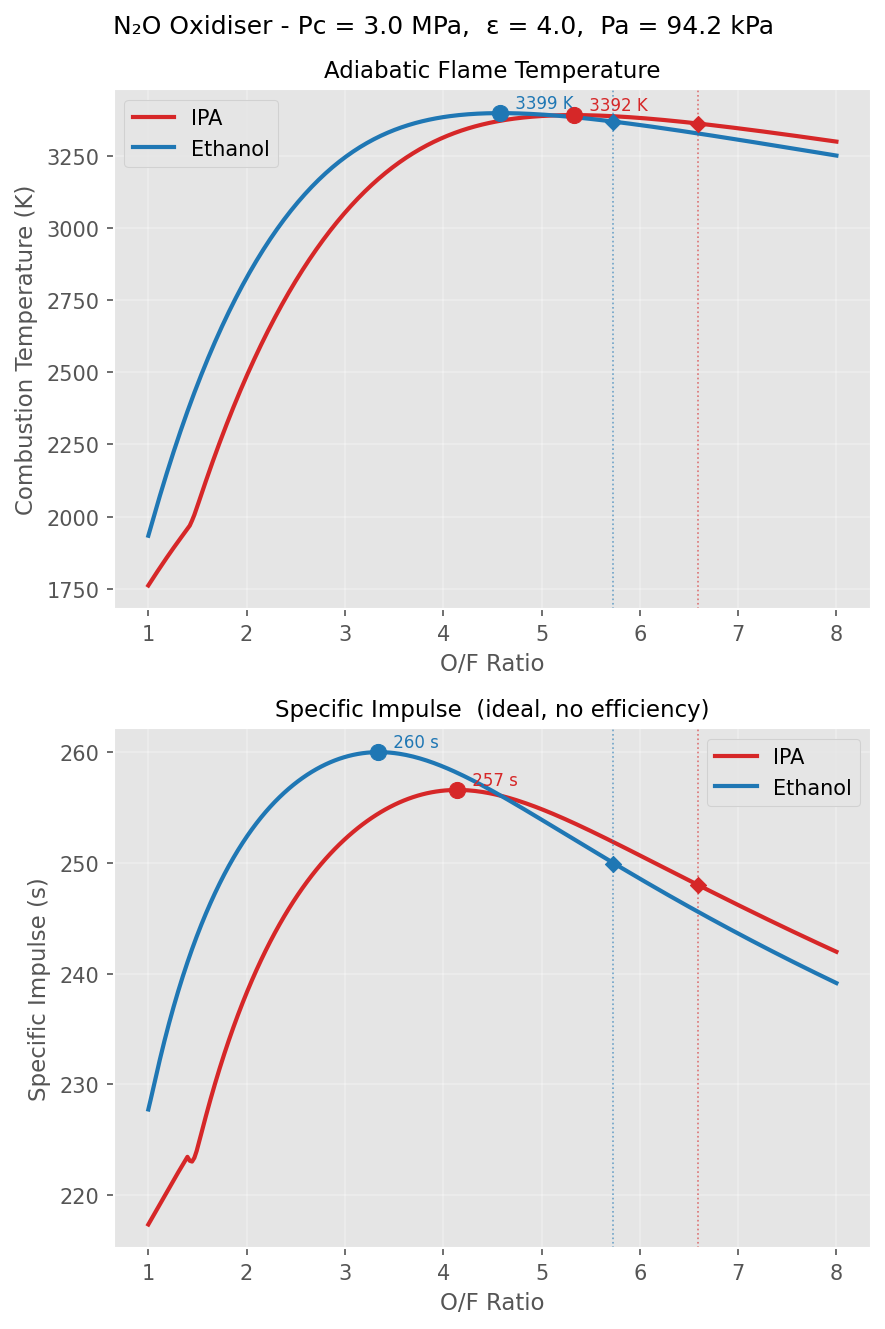
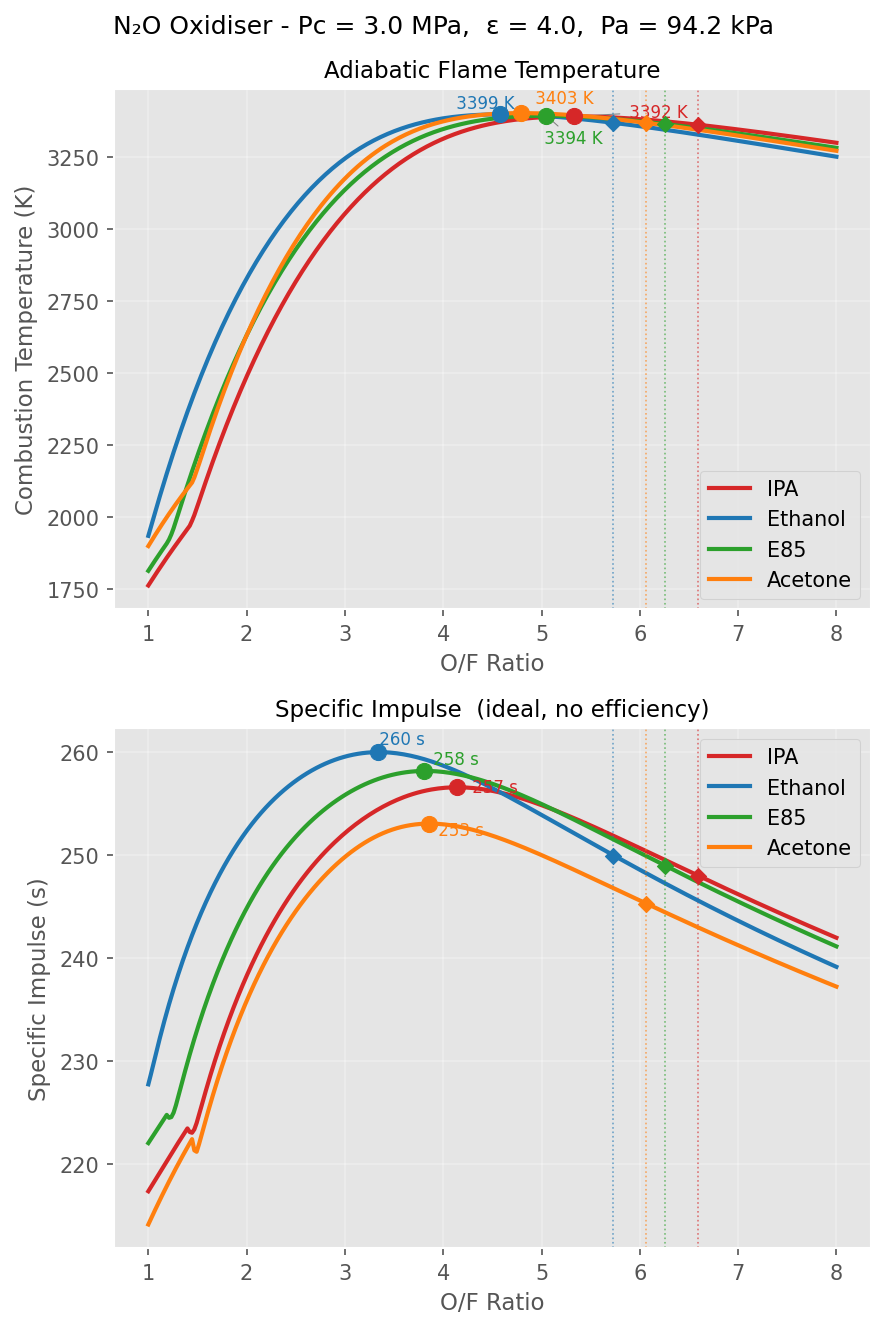
Added acetone as a fuel option

diff --git a/Simulation/TcVsOF.py b/Simulation/TcVsOF.py
@@ -1,12 +1,13 @@
 """
-Combustion temperature and Isp vs O/F ratio — N2O oxidiser.
-Edit the config block below to change fuels and sweep parameters.
+Combustion temperature and Isp vs equivalence ratio lambda (= O/F / O/F_stoich).
+Also generates a standalone plot of lambda vs O/F for all selected fuels.
 
 Supported fuels
   IPA      -- Isopropyl alcohol        (C3H8O)
   Ethanol  -- Ethanol                  (C2H6O)
   Methanol -- Methanol                 (CH4O)
   E85      -- 85% ethanol / 15% iso-octane blend
+  Acetone  -- Acetone                  (C3H6O)
 
 """
 
@@ -20,15 +21,24 @@ from PistonLiquidRocket import FUELS, combustion_props, thrust_coefficient, G0, 
 
 plt.style.use('ggplot')
 
-# ── Configuration ──────────────────────────────────────────────────────────────
-SELECTED_FUELS = ['IPA','Ethanol']  # subset of FUELS, or None for all
-OF_MIN      = 1.0       # O/F sweep start
-OF_MAX      = 8.0       # O/F sweep end
-OF_N        = 300       # number of points
-PC_MPA      = 3.0       # chamber pressure [MPa]
-EPS         = 4.0       # nozzle expansion ratio
-P_AMB       = 94_197.0  # ambient pressure [Pa]
-# ──────────────────────────────────────────────────────────────────────────────
+# -- Configuration -------------------------------------------------------------
+SELECTED_FUELS = ['IPA', 'Ethanol', 'E85', 'Acetone']  # subset of FUELS, or None for all
+LAM_MIN = 0.2       # lambda sweep start  (Tc/Isp plots)
+LAM_MAX = 1.0       # lambda sweep end
+LAM_N   = 300       # number of points
+OF_MIN  = 1.0       # O/F range for lambda vs O/F reference plot
+OF_MAX  = 8.0
+PC_MPA  = 3.0       # chamber pressure [MPa]
+EPS     = 4.0       # nozzle expansion ratio
+P_AMB   = 94_197.0  # ambient pressure [Pa]
+MIN_TEMP= 2000      # minimum temperature to plot [K]
+
+# Peak label offsets in points (dx, dy) — tweak to avoid line overlap
+OFFS           = 10
+LABEL_OFFSET_TC  = {'IPA': (-OFFS-15, OFFS), 'Ethanol': (OFFS, OFFS-2),
+                    'E85': (OFFS, -OFFS), 'Acetone': (-OFFS-10, -OFFS)}
+LABEL_OFFSET_ISP = {'IPA': (4, 0), 'Ethanol': (4, 0), 'E85': (4, 0), 'Acetone': (4, 0)}
+# ------------------------------------------------------------------------------
 
 COLORS = ['tab:red', 'tab:blue', 'tab:green', 'tab:orange',
           'tab:purple', 'tab:brown', 'tab:pink', 'tab:gray']
@@ -36,47 +46,51 @@ COLORS = ['tab:red', 'tab:blue', 'tab:green', 'tab:orange',
 
 def main():
     fuel_names = SELECTED_FUELS if SELECTED_FUELS is not None else list(FUELS.keys())
-    fuels  = [FUELS[n] for n in fuel_names]
-    ofs    = np.linspace(OF_MIN, OF_MAX, OF_N)
-    p_c_pa = PC_MPA * 1e6
+    fuels   = [FUELS[n] for n in fuel_names]
+    lambdas = np.linspace(LAM_MIN, LAM_MAX, LAM_N)
+    p_c_pa  = PC_MPA * 1e6
 
+    # -- Tc and Isp vs lambda --------------------------------------------------
     fig, (ax_tc, ax_isp) = plt.subplots(2, 1, figsize=(6, 9))
     fig.suptitle(
-        f'N₂O Oxidiser - Pc = {PC_MPA:.1f} MPa,  ε = {EPS:.1f},  Pa = {P_AMB/1e3:.1f} kPa',
+        f'N₂O Oxidiser — Pc = {PC_MPA:.1f} MPa,  ε = {EPS:.1f},  Pa = {P_AMB/1e3:.1f} kPa',
         fontsize=12,
     )
 
-    tc_curves = {}   # fuel.name -> Tc array, for design-point annotation
-
     for fuel, color in zip(fuels, COLORS):
-        props = [combustion_props(fuel, of, p_c_pa, EPS) for of in ofs]
+        ofs_fuel = lambdas * fuel.of_stoich
+        props = [combustion_props(fuel, of, p_c_pa, EPS) for of in ofs_fuel]
         Tc  = np.array([p[0] for p in props])
         gam = np.array([p[1] for p in props])
         cs  = np.array([p[3] for p in props])
         cf  = np.array([thrust_coefficient(g, EPS, p_c_pa, P_AMB) for g in gam])
         isp = cf * cs / G0
-        tc_curves[fuel.name] = (color, Tc)
 
-        for ax, data, peak_fmt in [(ax_tc, Tc, '{:.0f} K'), (ax_isp, isp, '{:.0f} s')]:
-            ax.plot(ofs, data, lw=2, color=color, label=fuel.name)
+        for ax, data, peak_fmt, offsets in [
+            (ax_tc,  Tc,  '{:.0f} K', LABEL_OFFSET_TC),
+            (ax_isp, isp, '{:.0f} s', LABEL_OFFSET_ISP),
+        ]:
+            ax.plot(lambdas, data, lw=2, color=color, label=fuel.name)
             pk = int(np.argmax(data))
-            ax.scatter(ofs[pk], data[pk], color=color, s=60, zorder=5)
-            ax.annotate(f' {peak_fmt.format(data[pk])}',
-                        xy=(ofs[pk], data[pk]), fontsize=8, color=color, va='center',
-                        xytext=(10,10), textcoords="offset pixels")
-            of_st = fuel.of_stoich
-            if OF_MIN <= of_st <= OF_MAX:
-                ax.axvline(of_st, color=color, lw=0.8, ls=':', alpha=0.6)
-                idx_st = int(np.searchsorted(ofs, of_st))
-                ax.scatter([of_st], [data[idx_st]], color=color, s=30, marker='D', zorder=5)
+            ax.scatter(lambdas[pk], data[pk], color=color, s=60, zorder=5)
+            dx, dy = offsets.get(fuel.name, (4, 0))
+            ax.annotate(peak_fmt.format(data[pk]),
+                        xy=(lambdas[pk], data[pk]),
+                        xytext=(dx, dy), textcoords='offset points',
+                        fontsize=8, color=color, va='center')
 
-    ax_tc.set_xlabel('O/F Ratio', fontsize=11)
+    # single stoichiometric line at lambda=1 (shared across all fuels)
+    for ax in (ax_tc, ax_isp):
+        ax.axvline(1.0, color='gray', lw=1.0, ls=':', alpha=0.8, label='Stoichiometric (λ=1)')
+
+    ax_tc.set_xlabel('λ', fontsize=11)
     ax_tc.set_ylabel('Combustion Temperature (K)', fontsize=11)
     ax_tc.set_title('Adiabatic Flame Temperature', fontsize=11)
+    ax_tc.set_ylim([MIN_TEMP,None])
     ax_tc.legend(fontsize=10)
     ax_tc.grid(True, alpha=0.3)
 
-    ax_isp.set_xlabel('O/F Ratio', fontsize=11)
+    ax_isp.set_xlabel('λ', fontsize=11)
     ax_isp.set_ylabel('Specific Impulse (s)', fontsize=11)
     ax_isp.set_title('Specific Impulse  (ideal, no efficiency)', fontsize=11)
     ax_isp.legend(fontsize=10)
@@ -84,9 +98,32 @@ def main():
 
     plt.tight_layout()
     os.makedirs(PLOT_DIR, exist_ok=True)
-    out = os.path.join(PLOT_DIR, 'tc_isp_vs_of.png')
-    plt.savefig(out, dpi=150, bbox_inches='tight')
-    print(f"  Saved -> {out}")
+    out1 = os.path.join(PLOT_DIR, 'tc_isp_vs_lambda.png')
+    plt.savefig(out1, dpi=150, bbox_inches='tight')
+    print(f"  Saved -> {out1}")
+
+    # -- Standalone: lambda vs O/F for all fuels -------------------------------
+    fig2, ax2 = plt.subplots(figsize=(7, 5))
+    fig2.suptitle('O/F vs λ  —  N₂O Oxidiser', fontsize=12)
+
+    of_arr = np.linspace(OF_MIN, OF_MAX, LAM_N)
+    for fuel, color in zip(fuels, COLORS):
+        lam = of_arr / fuel.of_stoich
+        ax2.plot(lam, of_arr, lw=2, color=color,
+                 label=f'{fuel.name}  (stoich O/F = {fuel.of_stoich:.2f})')
+
+    ax2.axvline(1.0, color='gray', lw=1.0, ls='--', alpha=0.8, label='Stoichiometric (λ=1)')
+    ax2.set_xlabel('λ', fontsize=11)
+    ax2.set_ylabel('O/F Ratio', fontsize=11)
+    ax2.set_title('O/F = λ × O/F_stoich', fontsize=11)
+    ax2.legend(fontsize=10)
+    ax2.grid(True, alpha=0.3)
+
+    plt.tight_layout()
+    out2 = os.path.join(PLOT_DIR, 'lambda_vs_of.png')
+    plt.savefig(out2, dpi=150, bbox_inches='tight')
+    print(f"  Saved -> {out2}")
+
     plt.show()
 
 

diff --git a/Simulation/PistonLiquidRocket.py b/Simulation/PistonLiquidRocket.py
@@ -240,16 +240,31 @@ fuel E85  C 8 H 18       wt%=13.400
     mw_exh_a=20.2, mw_exh_b=1.18, gamma_a=1.225, gamma_b=0.006,
 )
 
+ACETONE = Fuel(
+    name='Acetone', cea_name='ACETONE',
+    cea_card="""
+fuel ACETONE  C 3 H 6 O 1   wt%=100.
+  h,Kcal=-59.35  t(K)=298.15  rho,g/cc=0.791
+""",
+    coolprop_name='Acetone',
+    density_ref=791.0,
+    mw_g_mol=58.079,
+    n_o2_stoich=4.0,        # C3H6O + 4 O2 -> 3CO2 + 3H2O
+    t_ad_peak=3160.0, t_ad_of_peak=5.7, t_ad_sigma=1.80, t_ad_floor=1500.0,
+    mw_exh_a=20.4, mw_exh_b=1.16, gamma_a=1.225, gamma_b=0.006,
+)
+
 FUELS: dict[str, Fuel] = {
     'IPA':      IPA,
     'Ethanol':  ETHANOL,
     'Methanol': METHANOL,
     'E85':      E85,
+    'Acetone':  ACETONE,
 }
 
 # ── Default fuel ──────────────────────────────────────────────────────────────
 # Change this line to switch fuels without touching EngineConfig.
-# Options: IPA, ETHANOL, METHANOL, E85
+# Options: IPA, ETHANOL, METHANOL, E85, ACETONE
 DEFAULT_FUEL: Fuel = IPA
 
 

diff --git a/Documentation Vault/02-Design/01-Propulsion System/Propulsion System Overview.md b/Documentation Vault/02-Design/01-Propulsion System/Propulsion System Overview.md
@@ -17,11 +17,22 @@ P&ID Diagram:
 ![[P&ID.png]]
 
 ## Engine Architecture
-### Engine Simulation
+### Oxidiser
+Nitrous oxide (N<sub>2</sub>O) is used as the oxidiser due to its explicit requirement by Tripoli. It self-pressurises at room temperature and has limited chemical incompatibilities (unlike liquid oxygen), and is relatively non-toxic (compared to hydrogen peroxide).
+### Fuel
+A comparison of potential fuel types is summarised below:
 
-An OF ratio of 2.1 is fixed to limit chamber wall temperature. This comes with a penalty of 110 s of Isp compared to the optimal, but reduces the combustion temperature by YYY C, as seen in the plot of combustion temperature vs OF. 
+| Fuel Type               | Safety   | Cost                                                                                 | Availability          | Flame                        |
+| ----------------------- | -------- | ------------------------------------------------------------------------------------ | --------------------- | ---------------------------- |
+| Isopropyl alcohol (IPA) | Good     | [$4.5/L](https://www.sydneysolvents.com.au/isopropyl-alcohol-100-20-litre)           | Delivery              | Faint orange                 |
+| Ethanol                 | Good     | [$4.0/L](https://www.sydneysolvents.com.au/industrial-methylated-spirits-20-litre)   | Delivery              | Almost invisible blue/yellow |
+| Diesel                  | Good     | [$2.1/L](https://petrolspy.com.au/map/latlng/-27.530393745221538/153.04868461871592) | Any petrol station    | Bright orange                |
+| E85                     | Moderate | [$2.3/L](https://petrolspy.com.au/map/latlng/-27.544466300664432/153.06961875315346) | United petrol station | Moderate orange/light blue   |
+| Acetone                 | Moderate | [$4.8/L](https://www.sydneysolvents.com.au/acetone-20-litre)                         | Delivery              | Moderate orange/blue         |
+| Methanol                | Poor     | [$2.5/L](https://www.sydneysolvents.com.au/methanol-20-litre)                        | Delivery              | Almost invisible light blue  |
+On the basis of safety, the use of methanol was ruled out due to its high toxicity.
 
-![A:\Projects\Rockets\Liquid\tc_isp_vs_of.png](file:///a%3A/Projects/Rockets/Liquid/tc_isp_vs_of.png)
+IPA was chosen as the engine's fuel, due to its . An OF ratio of 2.1 is fixed to limit chamber wall temperature. This comes with a penalty of 110 s of Isp compared to the optimal, but reduces the combustion temperature by YYY C, as seen in the plot of combustion temperature vs OF. 
 ### Combustion Chamber
 
 ### Nozzle